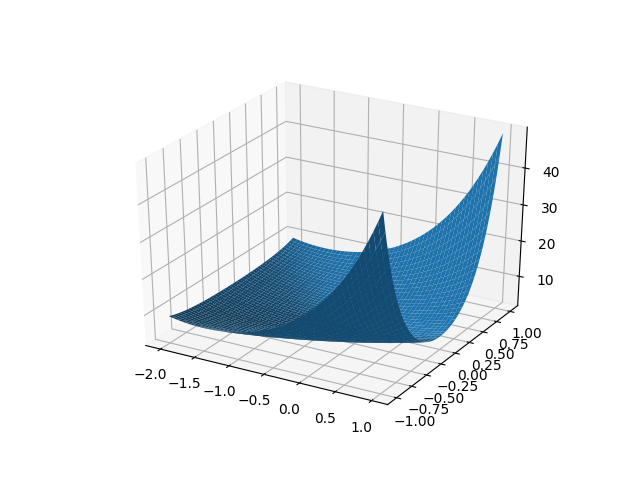
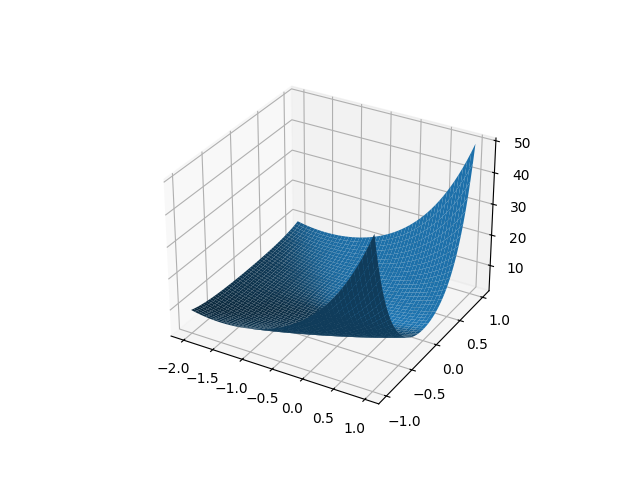
-

Changed region(s): [[0.2188, 0.1875, 0.875, 0.9062], [0.8438, 0.5625, 0.875, 0.5938]]

diff --git a/func_analysis/func_35_newton/func_35_newton.html b/func_analysis/func_35_newton/func_35_newton.html
@@ -620,8 +620,7 @@ class="sourceCode python"><code class="sourceCode python"><span id="cb1-1"><a hr
 <span id="cb1-2"><a href="#cb1-2" aria-hidden="true" tabindex="-1"></a>pd.set_option(<span class="st">&#39;display.notebook_repr_html&#39;</span>, <span class="va">False</span>)</span>
 <span id="cb1-3"><a href="#cb1-3" aria-hidden="true" tabindex="-1"></a>pd.set_option(<span class="st">&#39;display.max_columns&#39;</span>, <span class="dv">20</span>)</span>
 <span id="cb1-4"><a href="#cb1-4" aria-hidden="true" tabindex="-1"></a>pd.set_option(<span class="st">&#39;display.max_rows&#39;</span>, <span class="dv">30</span>) </span>
-<span id="cb1-5"><a href="#cb1-5" aria-hidden="true" tabindex="-1"></a>pd.set_option(<span class="st">&#39;display.width&#39;</span>, <span class="dv">82</span>) </span>
-<span id="cb1-6"><a href="#cb1-6" aria-hidden="true" tabindex="-1"></a>pd.set_option(<span class="st">&#39;precision&#39;</span>, <span class="dv">6</span>)</span></code></pre></div>
+<span id="cb1-5"><a href="#cb1-5" aria-hidden="true" tabindex="-1"></a>pd.set_option(<span class="st">&#39;display.width&#39;</span>, <span class="dv">82</span>) </span></code></pre></div>
 <div class="sourceCode" id="cb2"><pre
 class="sourceCode python"><code class="sourceCode python"><span id="cb2-1"><a href="#cb2-1" aria-hidden="true" tabindex="-1"></a>df <span class="op">=</span> pd.DataFrame(index<span class="op">=</span>np.arange(<span class="dv">11</span>))</span>
 <span id="cb2-2"><a href="#cb2-2" aria-hidden="true" tabindex="-1"></a></span>
@@ -869,10 +868,9 @@ class="sourceCode python"><code class="sourceCode python"><span id="cb8-1"><a hr
 <span id="cb8-16"><a href="#cb8-16" aria-hidden="true" tabindex="-1"></a>plt.plot(h[:,<span class="dv">0</span>],h[:,<span class="dv">1</span>])</span>
 <span id="cb8-17"><a href="#cb8-17" aria-hidden="true" tabindex="-1"></a>plt.savefig(<span class="st">&#39;boyd-1092.png&#39;</span>)</span>
 <span id="cb8-18"><a href="#cb8-18" aria-hidden="true" tabindex="-1"></a></span>
-<span id="cb8-19"><a href="#cb8-19" aria-hidden="true" tabindex="-1"></a>fig <span class="op">=</span> plt.figure()</span>
-<span id="cb8-20"><a href="#cb8-20" aria-hidden="true" tabindex="-1"></a>ax <span class="op">=</span> fig.gca(projection<span class="op">=</span><span class="st">&#39;3d&#39;</span>)</span>
-<span id="cb8-21"><a href="#cb8-21" aria-hidden="true" tabindex="-1"></a>surf <span class="op">=</span> ax.plot_surface(xx, yy, zz)</span>
-<span id="cb8-22"><a href="#cb8-22" aria-hidden="true" tabindex="-1"></a>plt.savefig(<span class="st">&#39;boyd-1091.png&#39;</span>)</span></code></pre></div>
+<span id="cb8-19"><a href="#cb8-19" aria-hidden="true" tabindex="-1"></a>fig, ax <span class="op">=</span> plt.subplots(<span class="dv">1</span>, <span class="dv">1</span>, subplot_kw<span class="op">=</span>{<span class="st">&#39;projection&#39;</span>: <span class="st">&#39;3d&#39;</span>})</span>
+<span id="cb8-20"><a href="#cb8-20" aria-hidden="true" tabindex="-1"></a>surf <span class="op">=</span> ax.plot_surface(xx, yy, zz)</span>
+<span id="cb8-21"><a href="#cb8-21" aria-hidden="true" tabindex="-1"></a>plt.savefig(<span class="st">&#39;boyd-1091.png&#39;</span>)</span></code></pre></div>
 <p><img src="boyd-1091.png" /> <img src="boyd-1092.png" /></p>
 <p>Kaynaklar</p>
 <p>[1] Bayramlı, Çok Boyutlu Calculus, <em>Vektör Calculus, Kurallar,

diff --git a/func_analysis/func_35_newton/newton_un_metodu__newton_s_method_.html b/func_analysis/func_35_newton/newton_un_metodu__newton_s_method_.html
@@ -620,8 +620,7 @@ class="sourceCode python"><code class="sourceCode python"><span id="cb1-1"><a hr
 <span id="cb1-2"><a href="#cb1-2" aria-hidden="true" tabindex="-1"></a>pd.set_option(<span class="st">&#39;display.notebook_repr_html&#39;</span>, <span class="va">False</span>)</span>
 <span id="cb1-3"><a href="#cb1-3" aria-hidden="true" tabindex="-1"></a>pd.set_option(<span class="st">&#39;display.max_columns&#39;</span>, <span class="dv">20</span>)</span>
 <span id="cb1-4"><a href="#cb1-4" aria-hidden="true" tabindex="-1"></a>pd.set_option(<span class="st">&#39;display.max_rows&#39;</span>, <span class="dv">30</span>) </span>
-<span id="cb1-5"><a href="#cb1-5" aria-hidden="true" tabindex="-1"></a>pd.set_option(<span class="st">&#39;display.width&#39;</span>, <span class="dv">82</span>) </span>
-<span id="cb1-6"><a href="#cb1-6" aria-hidden="true" tabindex="-1"></a>pd.set_option(<span class="st">&#39;precision&#39;</span>, <span class="dv">6</span>)</span></code></pre></div>
+<span id="cb1-5"><a href="#cb1-5" aria-hidden="true" tabindex="-1"></a>pd.set_option(<span class="st">&#39;display.width&#39;</span>, <span class="dv">82</span>) </span></code></pre></div>
 <div class="sourceCode" id="cb2"><pre
 class="sourceCode python"><code class="sourceCode python"><span id="cb2-1"><a href="#cb2-1" aria-hidden="true" tabindex="-1"></a>df <span class="op">=</span> pd.DataFrame(index<span class="op">=</span>np.arange(<span class="dv">11</span>))</span>
 <span id="cb2-2"><a href="#cb2-2" aria-hidden="true" tabindex="-1"></a></span>
@@ -869,10 +868,9 @@ class="sourceCode python"><code class="sourceCode python"><span id="cb8-1"><a hr
 <span id="cb8-16"><a href="#cb8-16" aria-hidden="true" tabindex="-1"></a>plt.plot(h[:,<span class="dv">0</span>],h[:,<span class="dv">1</span>])</span>
 <span id="cb8-17"><a href="#cb8-17" aria-hidden="true" tabindex="-1"></a>plt.savefig(<span class="st">&#39;boyd-1092.png&#39;</span>)</span>
 <span id="cb8-18"><a href="#cb8-18" aria-hidden="true" tabindex="-1"></a></span>
-<span id="cb8-19"><a href="#cb8-19" aria-hidden="true" tabindex="-1"></a>fig <span class="op">=</span> plt.figure()</span>
-<span id="cb8-20"><a href="#cb8-20" aria-hidden="true" tabindex="-1"></a>ax <span class="op">=</span> fig.gca(projection<span class="op">=</span><span class="st">&#39;3d&#39;</span>)</span>
-<span id="cb8-21"><a href="#cb8-21" aria-hidden="true" tabindex="-1"></a>surf <span class="op">=</span> ax.plot_surface(xx, yy, zz)</span>
-<span id="cb8-22"><a href="#cb8-22" aria-hidden="true" tabindex="-1"></a>plt.savefig(<span class="st">&#39;boyd-1091.png&#39;</span>)</span></code></pre></div>
+<span id="cb8-19"><a href="#cb8-19" aria-hidden="true" tabindex="-1"></a>fig, ax <span class="op">=</span> plt.subplots(<span class="dv">1</span>, <span class="dv">1</span>, subplot_kw<span class="op">=</span>{<span class="st">&#39;projection&#39;</span>: <span class="st">&#39;3d&#39;</span>})</span>
+<span id="cb8-20"><a href="#cb8-20" aria-hidden="true" tabindex="-1"></a>surf <span class="op">=</span> ax.plot_surface(xx, yy, zz)</span>
+<span id="cb8-21"><a href="#cb8-21" aria-hidden="true" tabindex="-1"></a>plt.savefig(<span class="st">&#39;boyd-1091.png&#39;</span>)</span></code></pre></div>
 <p><img src="boyd-1091.png" /> <img src="boyd-1092.png" /></p>
 <p>Kaynaklar</p>
 <p>[1] Bayramlı, Çok Boyutlu Calculus, <em>Vektör Calculus, Kurallar,

diff --git a/func_analysis/func_22_lp/func_22_lp.html b/func_analysis/func_22_lp/func_22_lp.html
@@ -167,7 +167,7 @@ class="sourceCode python"><code class="sourceCode python"><span id="cb5-1"><a hr
 <div class="sourceCode" id="cb7"><pre
 class="sourceCode python"><code class="sourceCode python"><span id="cb7-1"><a href="#cb7-1" aria-hidden="true" tabindex="-1"></a>b <span class="op">=</span> [<span class="dv">1</span>, <span class="dv">1</span>, <span class="dv">1</span>, <span class="dv">1</span>, <span class="dv">1</span>, <span class="dv">1</span>]</span>
 <span id="cb7-2"><a href="#cb7-2" aria-hidden="true" tabindex="-1"></a></span>
-<span id="cb7-3"><a href="#cb7-3" aria-hidden="true" tabindex="-1"></a><span class="im">from</span> scipy.optimize <span class="im">import</span> linprog</span>
+<span id="cb7-3"><a href="#cb7-3" aria-hidden="true" tabindex="-1"></a><span class="im">from</span> scipy.optimize <span class="im">import</span> linprog, linear_sum_assignment</span>
 <span id="cb7-4"><a href="#cb7-4" aria-hidden="true" tabindex="-1"></a>res <span class="op">=</span> linprog(C.flatten(), A_eq<span class="op">=</span>X, b_eq<span class="op">=</span>b)</span>
 <span id="cb7-5"><a href="#cb7-5" aria-hidden="true" tabindex="-1"></a>res <span class="op">=</span> np.<span class="bu">round</span>(res.x)</span>
 <span id="cb7-6"><a href="#cb7-6" aria-hidden="true" tabindex="-1"></a><span class="bu">print</span> (res)</span></code></pre></div>

diff --git a/func_analysis/func_22_lp/lineer_programlar_ornekler.html b/func_analysis/func_22_lp/lineer_programlar_ornekler.html
@@ -167,7 +167,7 @@ class="sourceCode python"><code class="sourceCode python"><span id="cb5-1"><a hr
 <div class="sourceCode" id="cb7"><pre
 class="sourceCode python"><code class="sourceCode python"><span id="cb7-1"><a href="#cb7-1" aria-hidden="true" tabindex="-1"></a>b <span class="op">=</span> [<span class="dv">1</span>, <span class="dv">1</span>, <span class="dv">1</span>, <span class="dv">1</span>, <span class="dv">1</span>, <span class="dv">1</span>]</span>
 <span id="cb7-2"><a href="#cb7-2" aria-hidden="true" tabindex="-1"></a></span>
-<span id="cb7-3"><a href="#cb7-3" aria-hidden="true" tabindex="-1"></a><span class="im">from</span> scipy.optimize <span class="im">import</span> linprog</span>
+<span id="cb7-3"><a href="#cb7-3" aria-hidden="true" tabindex="-1"></a><span class="im">from</span> scipy.optimize <span class="im">import</span> linprog, linear_sum_assignment</span>
 <span id="cb7-4"><a href="#cb7-4" aria-hidden="true" tabindex="-1"></a>res <span class="op">=</span> linprog(C.flatten(), A_eq<span class="op">=</span>X, b_eq<span class="op">=</span>b)</span>
 <span id="cb7-5"><a href="#cb7-5" aria-hidden="true" tabindex="-1"></a>res <span class="op">=</span> np.<span class="bu">round</span>(res.x)</span>
 <span id="cb7-6"><a href="#cb7-6" aria-hidden="true" tabindex="-1"></a><span class="bu">print</span> (res)</span></code></pre></div>
